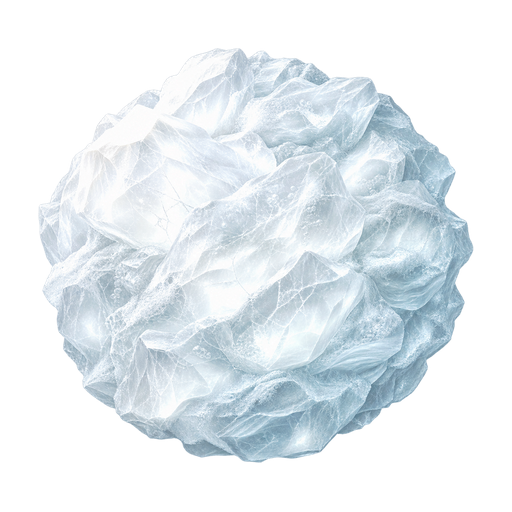
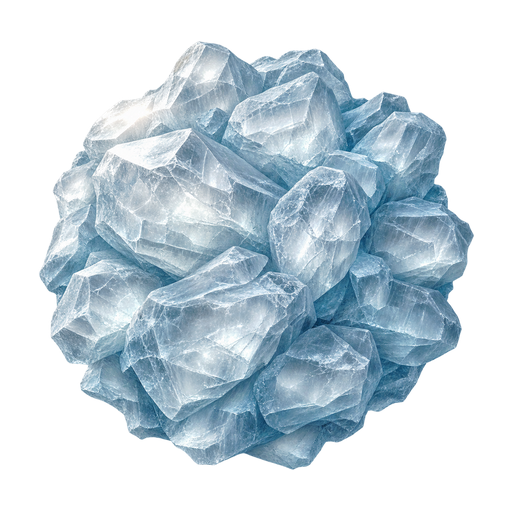
art: regenerate comet for final round 4 review

diff --git a/docs/art/NOTES.md b/docs/art/NOTES.md
@@ -130,6 +130,24 @@ Create ONE final production game sprite rock_crystal_2.png, a distinctive SECOND
 
 ### comet.png
 
+#### round 4 追記（2026-11-18 / Asia/Tokyo・最後の1回）
+
+- BRIEFとround 3のREVIEWを確認し、`comet.png` だけを組み込み `image_gen.imagegen` で**独立した新規画像として1枚生成**。今回の追加再生成0回、通算3回目の作り直し。添付2枚は方向性の参考だけにし、編集入力・コピー・加工には使用していない。seed指定欄はなく固定・再利用なし。画像編集の連鎖なし。
+- 原本（保持）: `C:\Users\manga\.codex\generated_images\01a1ea14-3321-7dc1-b302-a634a0803f9d\call_OLZv36POSe02Zjw1VgEG1bxc.png`（1254×1254 RGBA）。生成時の原本表示では各結晶の輪郭・透明な面・内部の白い芯・鋼青の隙間を確認したが、最終PNGの合格判定には代用しない。
+- 後処理はPillowのalpha値8以下の透過整理、透明余白トリミング、縦横比保持のLANCZOS縮小、透明512×512への中央配置、RGBA PNGロスレス保存のみ。描画・明るさ／コントラスト補正・減色なし。最終352,434バイト（400 KB未満）。外接矩形 `(38,41,474,470)`、実体436×429px、縦横比1.0163、最長辺85.16%、四辺に透明余白あり。
+- **保存済み最終PNGの平均輝度: 165.7386 / 255。目安175〜195の範囲外（下限より9.2614低い）。** `convert('L')`（概ね0.299R + 0.587G + 0.114B）をalpha > 0の画素だけで算術平均。透明画素を除外し半透明画素は等重み。輝度245以上は3.1344%。測定だけで補正なし。「最後の1回」の指定に従い追加生成していない。
+- `preview.png` は1536×1576の既存一覧を維持し、comet枠 `(640,618)-(896,874)` だけを最終PNGから暗背景 `#060818` に再合成。差分外接矩形 `(657,636,879,855)` がcomet枠内だけであることを検査。他画像・ラベル・既存64px欄は不変。
+- **後処理後の暗背景での目視は環境障害により未完了。合格とはしない。** 保存済みPNGを再読込し、通常氷・comet・紫結晶を左から280px／64pxで暗背景 `#060818` に並べた `C:\Users\manga\AppData\Local\Temp\pedal-rhythm-round4-comet-final-dark-comparison.png` を作成して開こうとしたが、`view_image` が `helper_sandbox_lock_failed / SetNamedSecurityInfoW ... failed: 5` で表示失敗。Node画像表示も同じsandbox障害でカーネル終了。原本表示・数値検査を最終目視の代用にしない。
+- 気になる点: 指定より平均輝度が低く、通常氷に対する特別感が不足する可能性。64pxでの白い芯・結晶の分離、面の自然さ、合成縁、絵柄の統一は最終目視未確認。合格済み9画像とREVIEWは不変。更新対象はcomet・本欄追記・previewの3ファイルのみ。
+
+新しい生成プロンプトの要旨（実際に指定した主要条件）:
+
+```text
+Generate ONE brand-new original comet nucleus sprite, NOT an edit or copy of the supplied references. Invent a new near-spherical integrated cluster of 16-24 short thick translucent ice crystals, each with distinct boundaries, optical planes, finely painted natural fractures/inclusions and a localized white luminous core INSIDE. Realistic hand-painted hard-SF concept art; not low-poly, crumpled paper or snowball.
+Target mean grayscale 175-195, around 185: 55-60% luminous pale silver/white ice faces (205-230), 30-35% MEDIUM STEEL BLUE side planes and separating channels (115-155), 5-10% near-white highlights/internal cores (235-250). Preserve readable blue gaps, neither black nor washed out. Strong UPPER LEFT light, blue lower-right shading. White/steel blue/pale cyan only, no purple or orange. White-luminous but structurally readable at 64px.
+Real TRANSPARENT RGBA square, complete centered object about 85% extent, ratio <=1.25, clear margins. Glow inside crystals only. NO tail, halo, ring, rays, flare, bloom, particles, floating fragments, mist, background, cast shadow, text, logo, border, UI, watermark or signature.
+```
+
 #### round 3 追記（2026-11-18 / Asia/Tokyo）
 
 - 作り直し **1回**（追加再生成0回、上限3回）。組み込み `image_gen.imagegen` で独立した新規画像として生成。前版の密集した透明結晶のかたまり・描き込みという方向をプロンプトで維持し、明るい鋼青〜薄い水色の地肌、面積のある白い内部発光芯、ほぼ白い左上面を指定。コードによる描画・明るさ／コントラスト補正は一切していない。seed指定欄はなく固定・再利用なし。編集済み画像を再編集する連鎖もなし。
